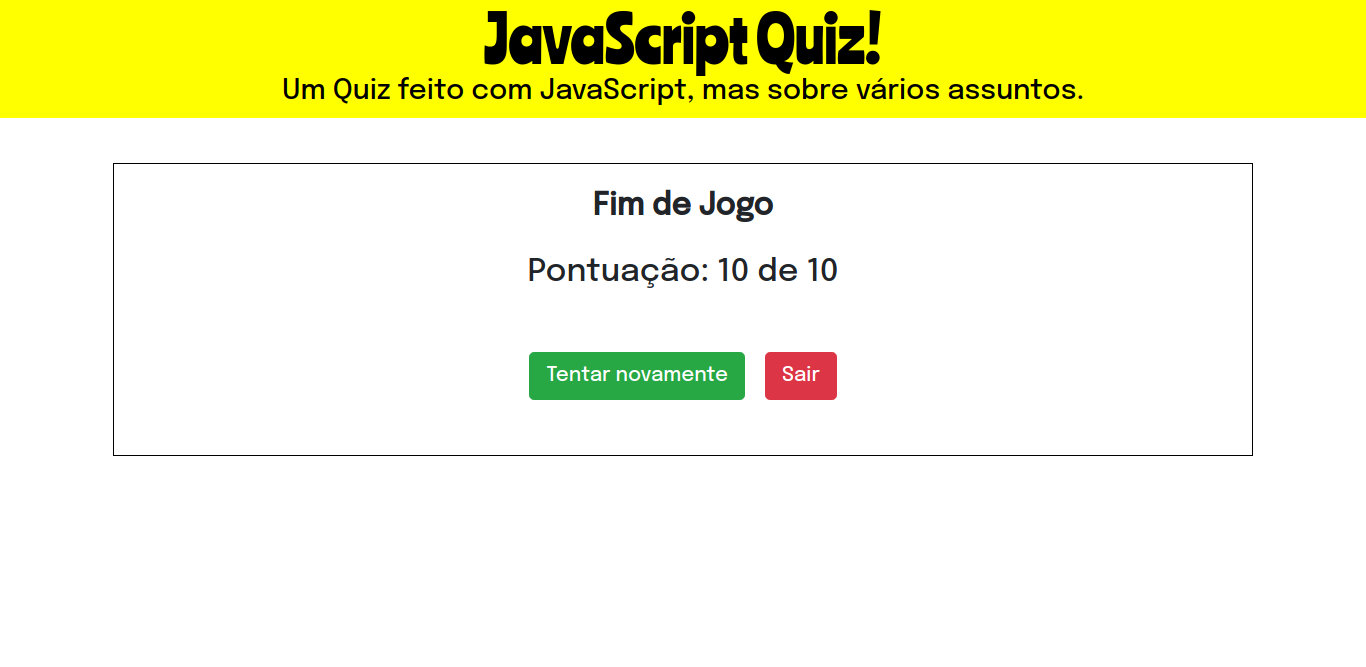
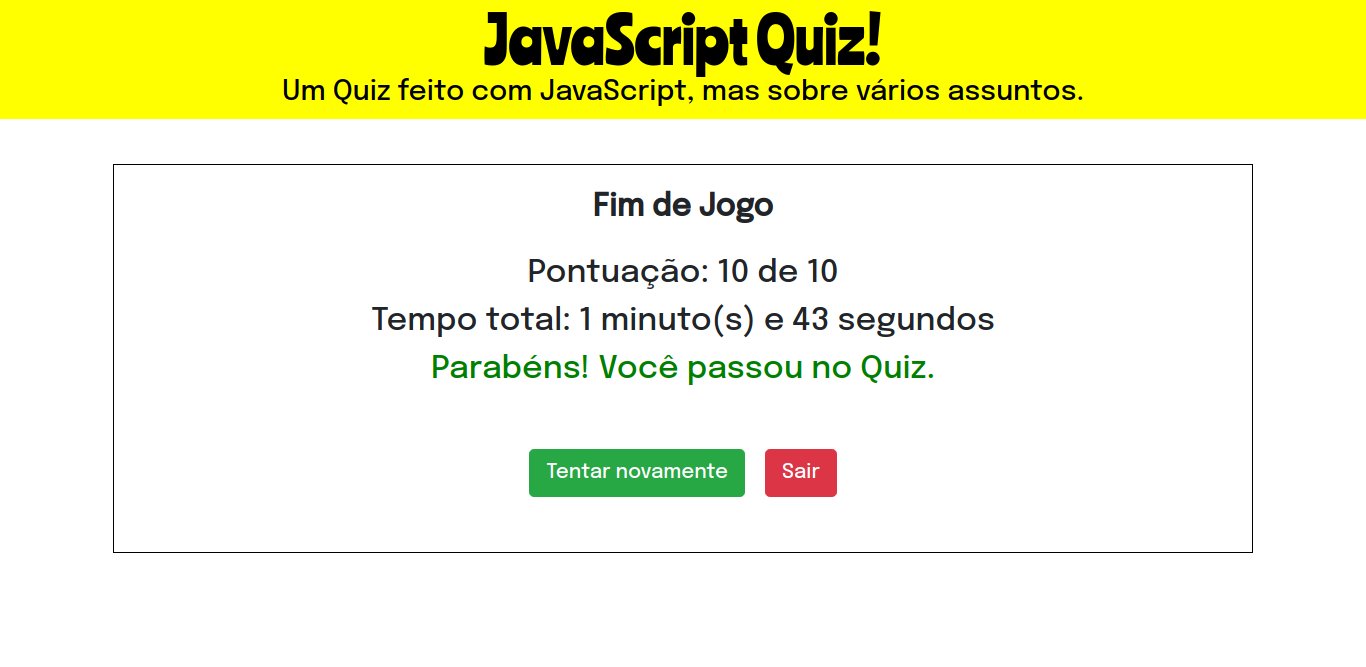
Alterando exibição do tempo total

diff --git a/scripts/quiz.js b/scripts/quiz.js
@@ -170,15 +170,11 @@ function game(letra){
 				let minutos = Math.floor(tempoTotal / 60)
 				let segundos = Math.floor(tempoTotal - (minutos * 60)) 
 				
-				if(minutos < 10){
-					minutos = `0${minutos}`
-				}
-
 				if(segundos < 10){
 					segundos = `0${segundos}`	
 				}
 
-				tempo.innerHTML = `Tempo total: ${minutos}:${segundos} minutos`
+				tempo.innerHTML = `Tempo total: ${minutos} minuto(s) e ${segundos} segundos`
 			}
 		}
 		/* =-=-= Fim Impressão Cronometro na Tela =-=-= */
